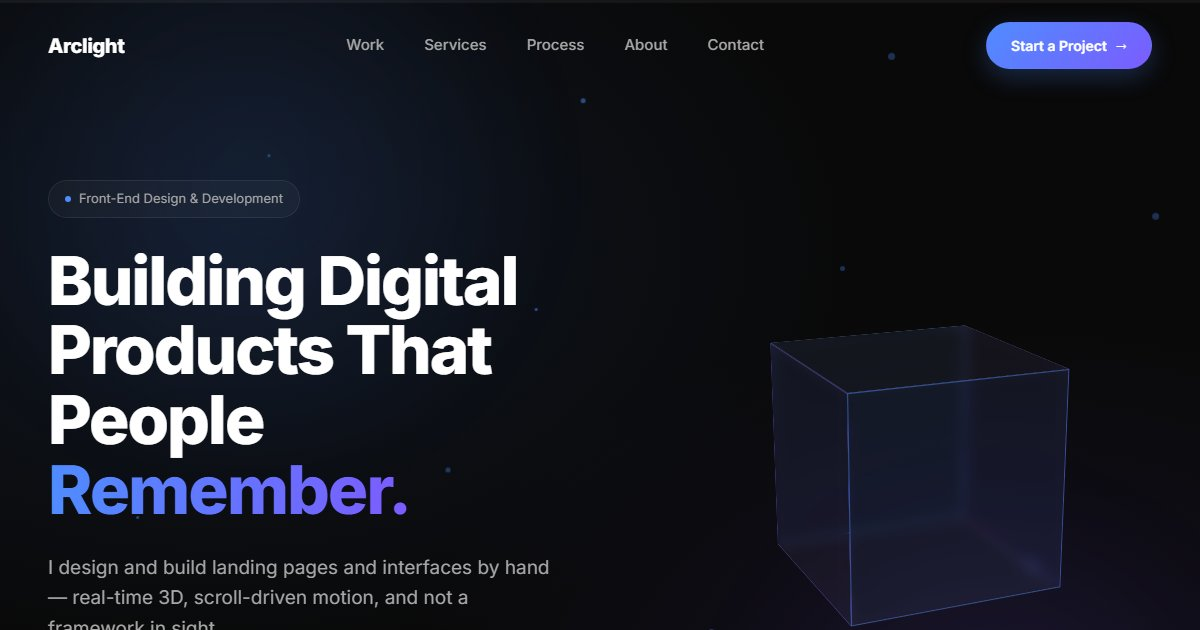
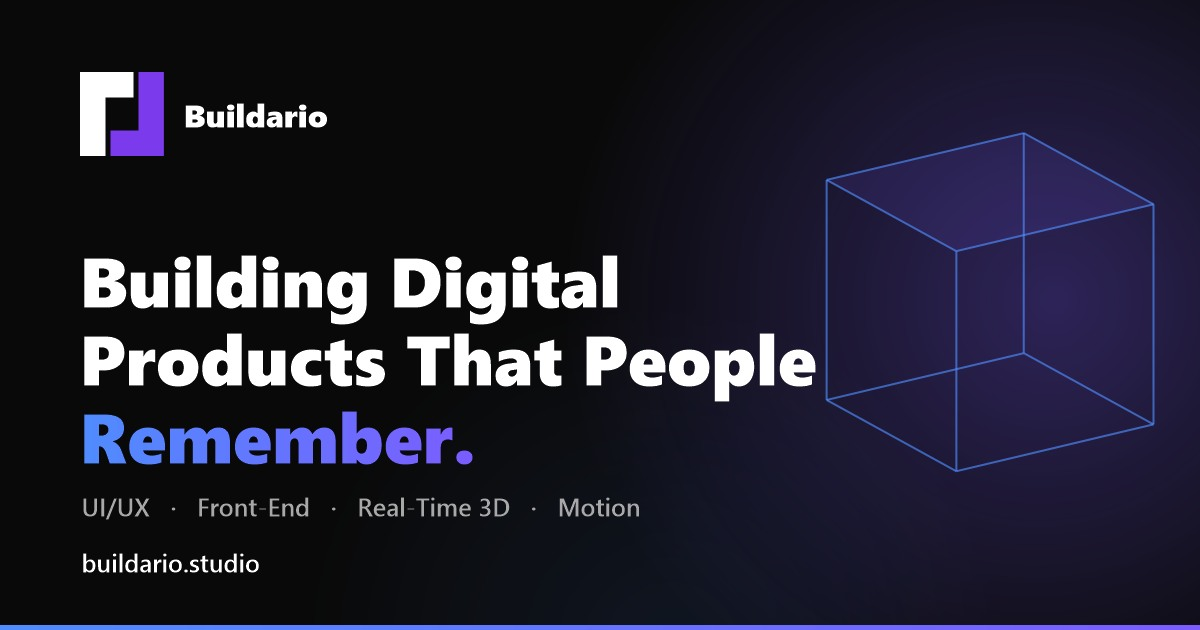
Replace the og cover: it was branded Arclight, not Buildario
The old assets/og-cover.jpg was a screenshot of an earlier build of the site
carrying the name "Arclight", so every link preview on Facebook, WhatsApp,
LinkedIn and X showed the wrong company. It also cropped the hero sub mid-word.

The replacement is purpose-built at 1200x630 rather than screenshotted: the
profile mark and wordmark, the hero headline with "Remember." on the same
--accent -> --accent-2 gradient as .grad-text, a wireframe cube echoing the
hero, the service line and the domain, on the site's #090909 ground.

Set in Segoe UI Black, not Inter — Inter is not installed locally and the
generator draws with System.Drawing rather than fetching a webfont.

The meta tags point at og-cover.jpg?v=2: the filename is unchanged, and
without a changed URL the social scrapers would keep serving the cached
Arclight card for days.

diff --git a/index.html b/index.html
@@ -15,14 +15,14 @@
 <meta property="og:site_name" content="Buildario">
 <meta property="og:title" content="Buildario — Front-End Design &amp; Development Portfolio">
 <meta property="og:description" content="Hand-built landing pages and interfaces — WebGL, scroll-driven motion, and no frameworks.">
-<meta property="og:image" content="https://buildario.studio/assets/og-cover.jpg">
+<meta property="og:image" content="https://buildario.studio/assets/og-cover.jpg?v=2">
 <meta property="og:image:width" content="1200">
 <meta property="og:image:height" content="630">
 <meta property="og:image:alt" content="Buildario portfolio: Building Digital Products That People Remember.">
 <meta name="twitter:card" content="summary_large_image">
 <meta name="twitter:title" content="Buildario — Front-End Design &amp; Development Portfolio">
 <meta name="twitter:description" content="Hand-built landing pages and interfaces — WebGL, scroll-driven motion, and no frameworks.">
-<meta name="twitter:image" content="https://buildario.studio/assets/og-cover.jpg">
+<meta name="twitter:image" content="https://buildario.studio/assets/og-cover.jpg?v=2">
 <meta name="theme-color" content="#090909">
 
 <link rel="icon" href="favicon.svg" type="image/svg+xml">
